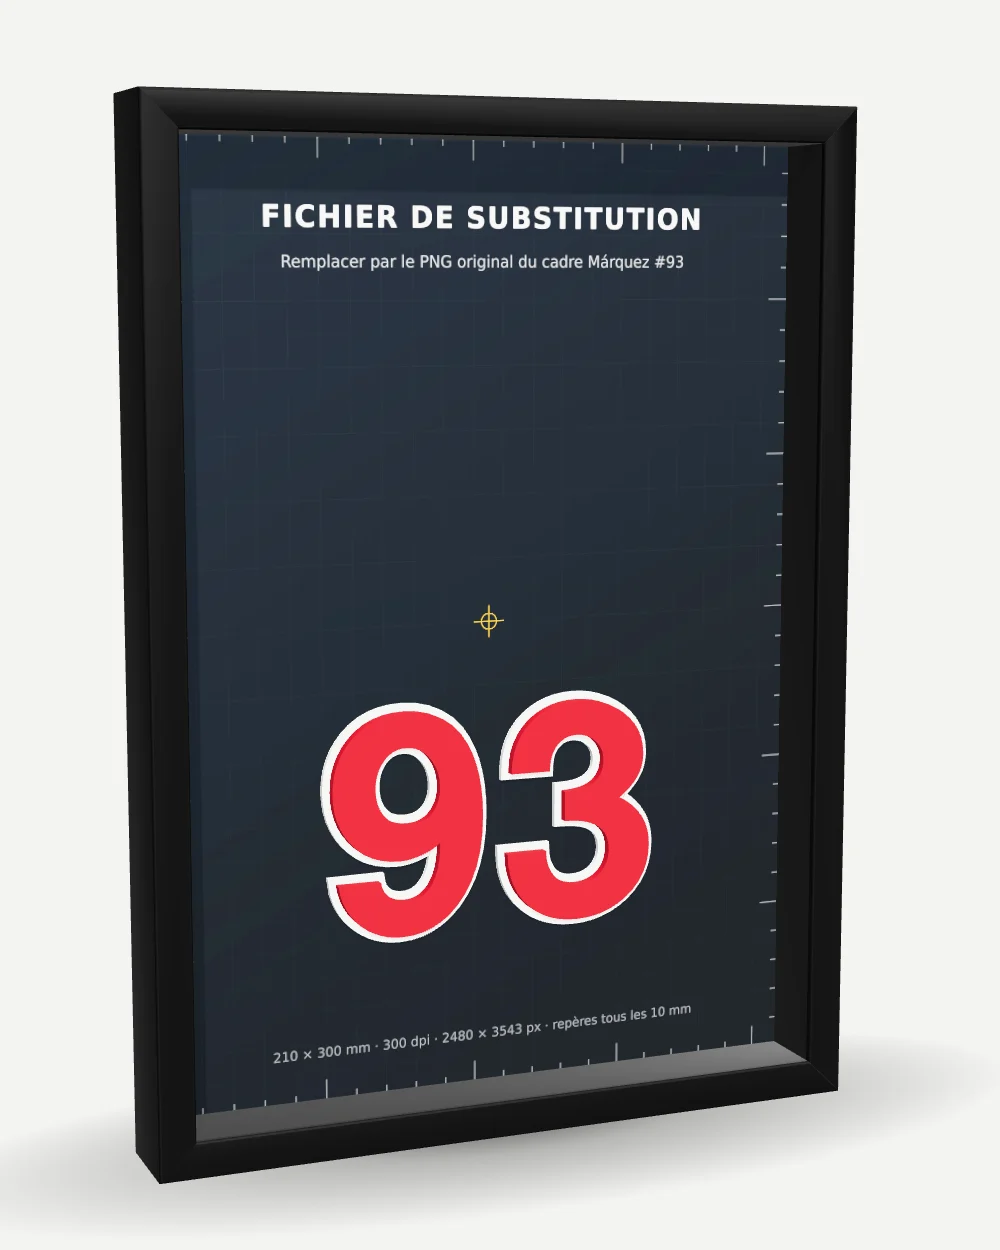
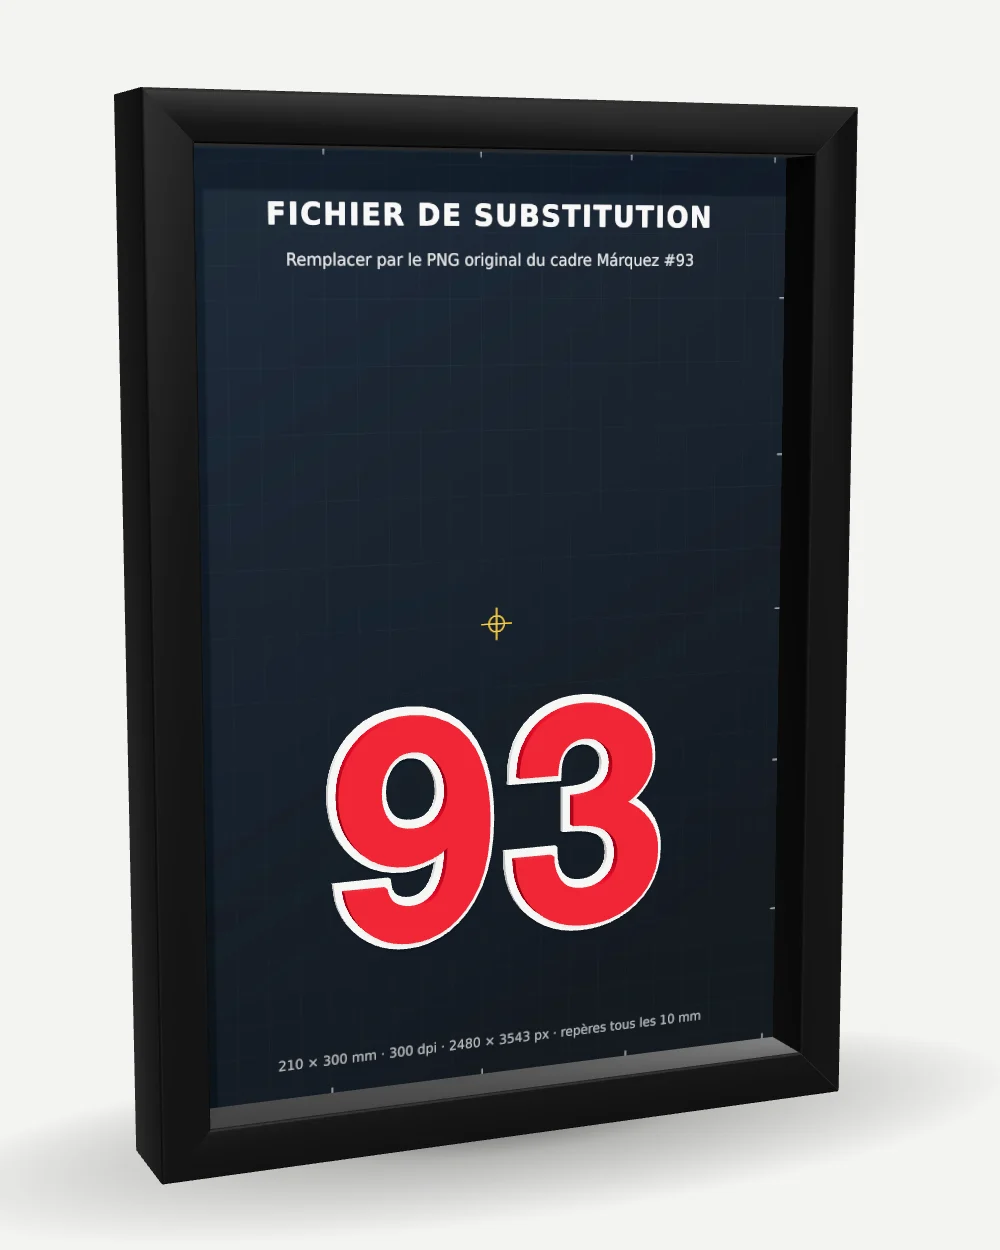
Désactive la vitre par défaut (code conservé, réactivable dans config.json)
Claude-Session: https://claude.ai/code/session_016hVmdpMivnB8giVPYHwT9o

diff --git a/lafabrik-viewer/README.md b/lafabrik-viewer/README.md
@@ -144,8 +144,9 @@ et définissez les couleurs dans `config.json → filaments`. Puis `npm run impo
   reliefs sur le fond et des moulures sur le papier, contre-jour pour le dos ; ombre de contact au sol.
 - Tone mapping « Neutral » (couleurs du PNG peu altérées), fond gris très clair.
 - Stries de couches FDM (0,2 mm) simulées sur les flancs des pièces, visibles en gros plan.
-- Protection : plastique très transparent avec reflets discrets ; masquable ; jamais traversée (contrôle
-  de hauteur à l'import et dans l'éditeur).
+- Protection : **désactivée par défaut** (les cadres LaFabrik n'ont pas de vitre). Le code est conservé : mettre
+  `"glass": { "enabled": true, "visibleByDefault": true }` dans `config.json` (ou cocher « Protection présente »
+  dans l'éditeur) la réactive ; plastique très transparent, masquable, jamais traversée par les reliefs.
 
 ## Performances mesurées (fichiers de test)
 
